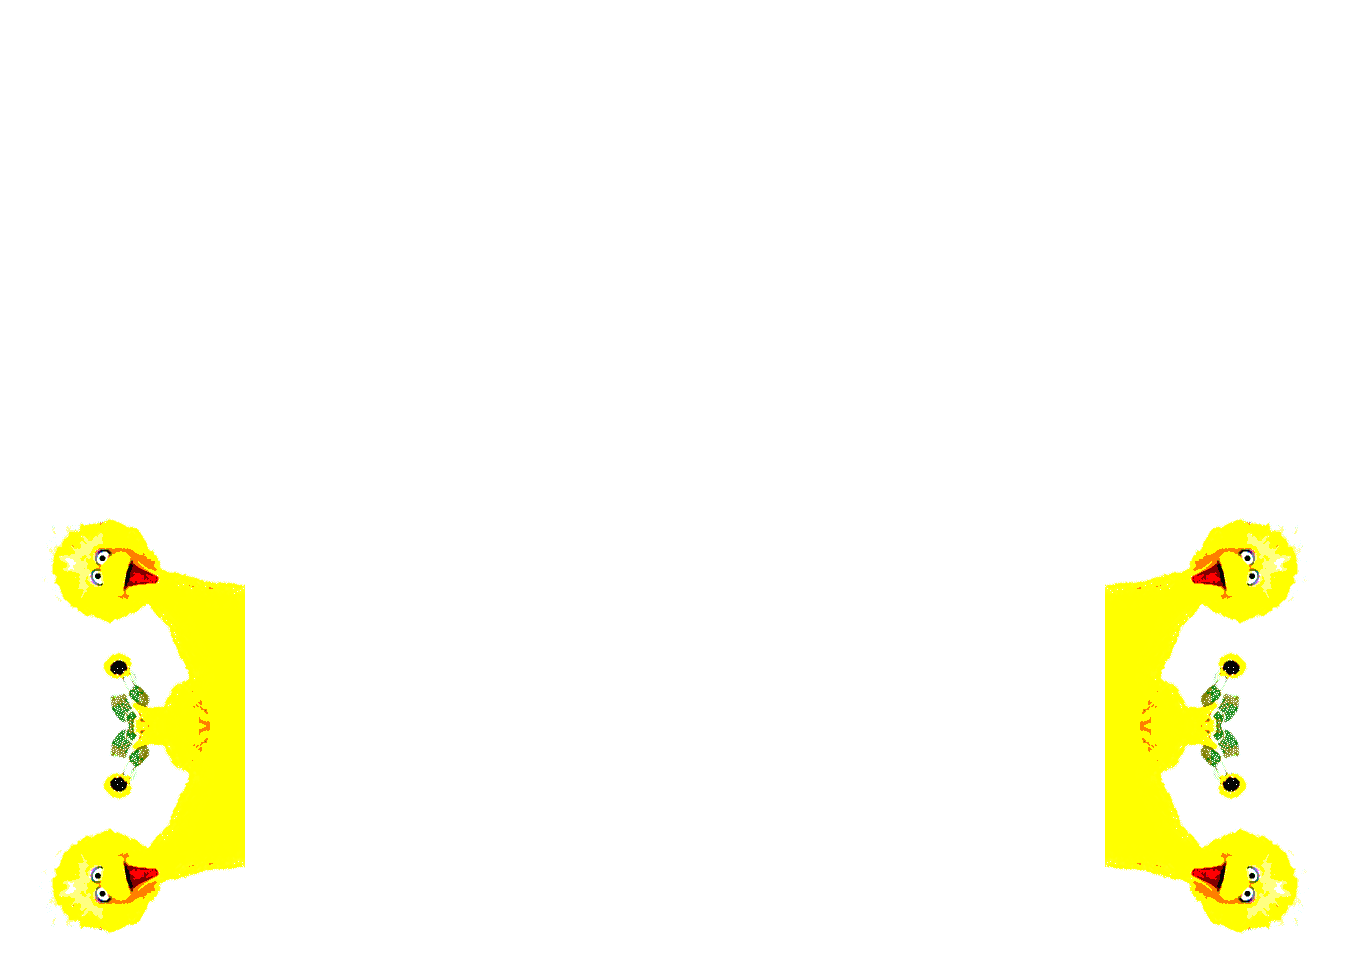
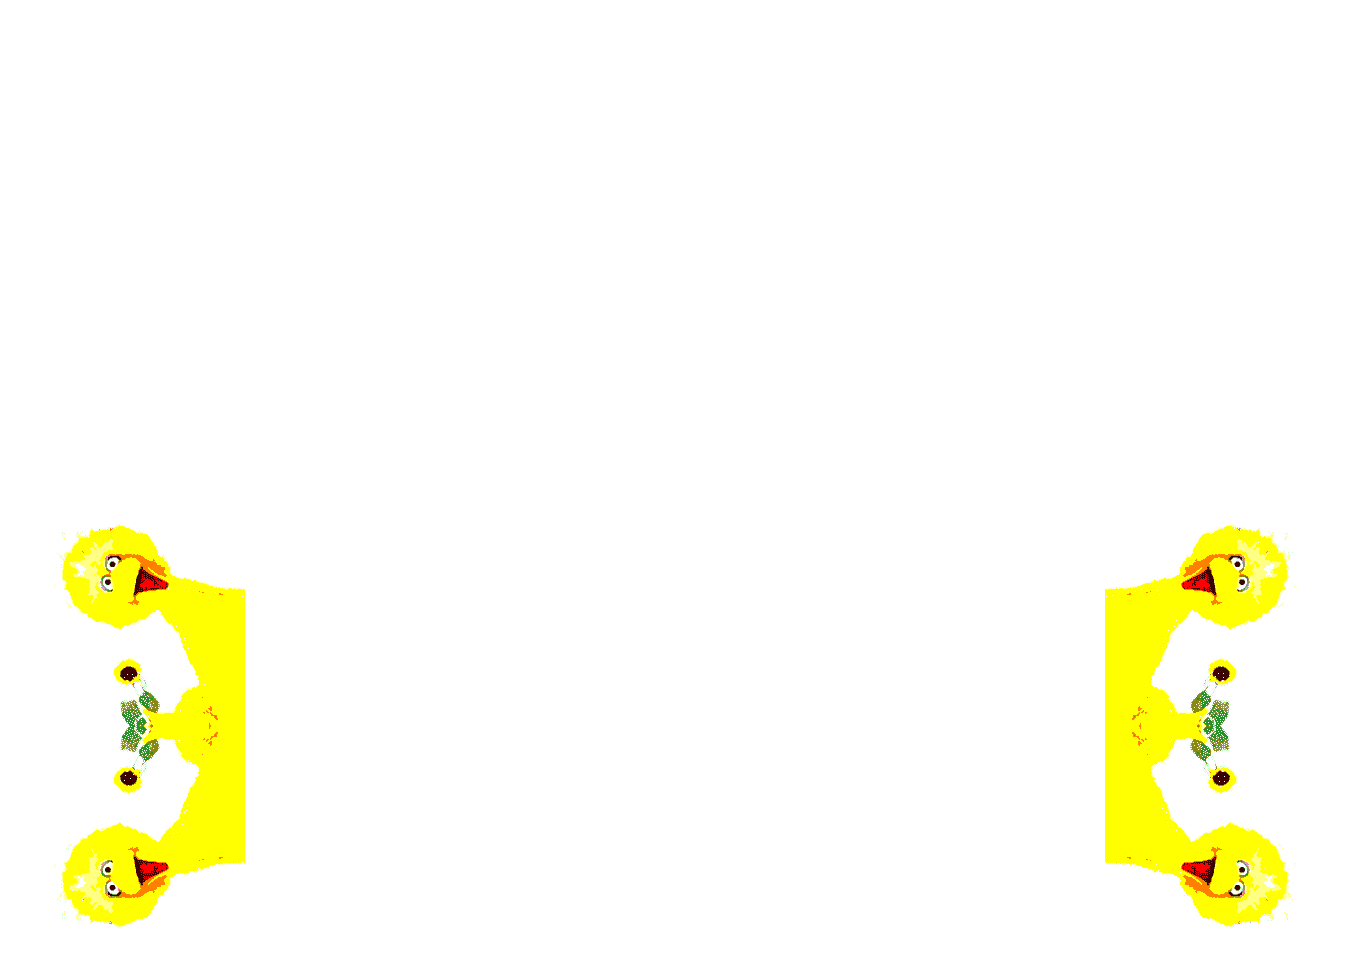
refactored and new backgrounds

diff --git a/index.html b/index.html
@@ -3,7 +3,7 @@
 	<head>
 		<meta charset="UTF-8">
 		<title>Mitt vs. the Truth</title>
-		<style> body {font-family: 'Courier New', Courier, serif; text-transform: uppercase; background-image: url('hundred_dollars.jpg'); padding: 0; margin: 0; } div.container {margin: 0 auto; width: 860px; margin-bottom: 12px; } div.container.animate { width: 100%; text-align: center; overflow: hidden; } div.images { width: 100%; height: 484px; background-position: top center; background-repeat: no-repeat; } div#binders { background-image: url('binders.png'); } div#guns { background-image: url('guns.png'); } div#bigbird { background-image: url('bigbird.png'); } h1 {font-size: 3em; text-align: center; background-color: #000; margin: 0 0 12px; padding: 12px 0; } ul#cites {text-align: left; list-style-type: none; float: left; width: 590px; padding: 12px; background-color: #000; margin: 0; display: none; font-size: 1.25em; font-weight: bold; } div#sharing {width: 212px; color: #fff; background-color: #000; padding: 12px; float: right; } p#download {font-weight: bold; padding: 0; margin: 0 0 12px; } a { color: #fff; } .clear { clear: both; } span.teal { color: #29fdf5; } span.lime { color: #6ffd29; } span.pink { color: #fd29f1; } span.orange { color: #f9f23e; } iframe.twitter-share-button { position: relative; top: 5px; }</style>
+		<style> body {font-family: 'Courier New', Courier, serif; text-transform: uppercase; background-image: url('hundred_dollars.png'); padding: 0; margin: 0; } div.container {margin: 0 auto; width: 860px; margin-bottom: 12px; } div.container.animate { width: 100%; text-align: center; overflow: hidden; } div.images { width: 100%; height: 484px; background-position: top center; background-repeat: no-repeat; } div#binders { background-image: url('binders.png'); } div#guns { background-image: url('guns.png'); } div#bigbird { background-image: url('bigbird.png'); } div#foreclosure { background-image: url('foreclosure.png'); } div#prolife { background-image: url('prolife.png'); } div#prochoice { background-image: url('prochoice.png'); } h1 {font-size: 3em; text-align: center; background-color: #000; margin: 0 0 12px; padding: 12px 0; } ul#cites {text-align: left; list-style-type: none; float: left; width: 590px; padding: 12px; background-color: #000; margin: 0; display: none; font-size: 1.25em; font-weight: bold; } div#sharing {width: 212px; color: #fff; background-color: #000; padding: 12px; float: right; } p#download {font-weight: bold; padding: 0; margin: 0 0 12px; } a { color: #fff; } .clear { clear: both; } span.teal { color: #29fdf5; } span.lime { color: #6ffd29; } span.pink { color: #fd29f1; } span.orange { color: #f9f23e; } iframe.twitter-share-button { position: relative; top: 5px; }</style>
 		<meta property="og:url" content="http://www.mittvsthetruth.com/" />
 		<meta property="og:title" content="Mitt vs. the Truth" />
 		<meta property="og:video" content="http://www.youtube.com/v/suLji910lMM?version=3&amp;autohide=1" />
@@ -18,10 +18,16 @@
 			<h1><span class="pink">Mitt</span> <span class="lime">vs.</span> <span class="teal">the</span> <span class="orange">Truth</span></h1>
 		</div>
 		<div class="container animate">
-			<div id="binders" class="images">
-				<div id="guns" class="images">
-					<div id="bigbird" class="images">
-						<div id="steinski"></div>
+			<div id="prochoice" class="images">
+				<div id="prolife" class="images">
+					<div id="binders" class="images">
+						<div id="foreclosure" class="images">
+							<div id="guns" class="images">
+								<div id="bigbird" class="images">
+									<div id="steinski"></div>
+								</div>
+							</div>
+						</div>
 					</div>
 				</div>
 			</div>
@@ -62,20 +68,20 @@
 					13.8: { index: 3, text: '...and pulled something out...', displayed: false, color: color.TEAL },
 					15.8: { index: 4, text: 'Forty-seven percent...', displayed: false, color: color.LIME },
 					18.9: { index: 5, text: '...it would look like Mitt Romney.', displayed: false, color: color.TEAL },
-					23.4: { index: 6, text: 'Don\'t try and stop the foreclosure process...', displayed: false, color: color.ORANGE },
-					26.4: { index: 7, text: 'Big Bird!', displayed: false, color: color.PINK, showSprite: 'bigbird' },
+					23.4: { index: 6, text: 'Don\'t try and stop the foreclosure process...', displayed: false, color: color.ORANGE, callback: showSprite, payload: 'foreclosure' },
+					26.4: { index: 7, text: 'Big Bird!', displayed: false, color: color.PINK, callback: showSprite, payload: 'bigbird' },
 					28.8: { index: 8, text: '...let it run its course...', displayed: false, color: color.ORANGE },
 					31.5: { index: 9, text: 'Big Bird!', displayed: false, color: color.PINK },
 					33.9: { index: 10, text: '...and hit the bottom.', displayed: false, color: color.ORANGE },
-					36.1: { index: 11, text: '...binders full of women...', displayed: false, color: color.LIME, showSprite: 'binders' },
+					36.1: { index: 11, text: '...binders full of women...', displayed: false, color: color.LIME, callback: showSprite, payload: 'binders' },
 					37.1: { index: 12, text: 'That\'s exactly what I said.', displayed: false, color: color.TEAL },
 					41.7: { index: 13, text: 'Let Detroit go bankrupt.', displayed: false, color: color.PINK },
 					50.1: { index: 14, text: 'Preexisting conditions are covered under my plan.', displayed: false, color: color.ORANGE },
 					53.8: { index: 15, text: 'Say I want insurance because I\'ve got heart disease? We can\'t play the game like that.', displayed: false, color: color.TEAL },
-					59.1: { index: 16, text: 'Tough gun laws in Massachusetts — I support them.', displayed: false, color: color.LIME, showSprite: 'guns' },
+					59.1: { index: 16, text: 'Tough gun laws in Massachusetts — I support them.', displayed: false, color: color.LIME, callback: showSprite, payload: 'guns' },
 					63.6: { index: 17, text: 'I worked to advance the rights of gun owners in my state.', displayed: false, color: color.ORANGE },
-					73.4: { index: 18, text: 'I have always opposed abortion.', displayed: false, color: color.PINK },
-					77.2: { index: 19, text: 'I believe that abortion should be safe and legal in this country.', displayed: false, color: color.TEAL },
+					73.4: { index: 18, text: 'I have always opposed abortion.', displayed: false, color: color.PINK, callback: showSprite, payload: 'prolife' },
+					77.2: { index: 19, text: 'I believe that abortion should be safe and legal in this country.', displayed: false, color: color.TEAL, callback: showSprite, payload: 'prochoice' },
 					82.1: { index: 20, text: 'I was an avidly pro-life governor.', displayed: false, color: color.ORANGE },
 					84.2: { index: 21, text: 'I have to ask you — are you calling Mitt Romney...', displayed: false, color: color.TEAL },
 					87.9: { index: 22, text: '...a liar?', displayed: false, color: color.TEAL },
@@ -115,19 +121,17 @@
 					cueElement.appendChild(cueText);
 					cueElement.style.color = currentCue.color;
 					cites.insertBefore(cueElement, cites.firstChild);
-					if (!!currentCue.showSprite) {
-						console.log('showSprite called');
-						var element = document.getElementById(currentCue.showSprite);
-						console.log(element);
-						element.style.backgroundPosition = '50% 100%';
-						
-					}
-					if (cites.children.length > 7) {
-						cites.removeChild(cites.lastChild);
-					}
+					if (!!currentCue.callback) currentCue.callback(currentCue.payload);
+					if (cites.children.length > 7) cites.removeChild(cites.lastChild);
 					cues[cueTime].displayed = true;
 					currentIndex = currentCue.index;
 				}
+			}
+
+			function showSprite(id) {
+				console.log('showSprite called');
+				var element = document.getElementById(id);
+				element.style.backgroundPosition = '50% 100%';
 			}
 
 			function syncTime() {
